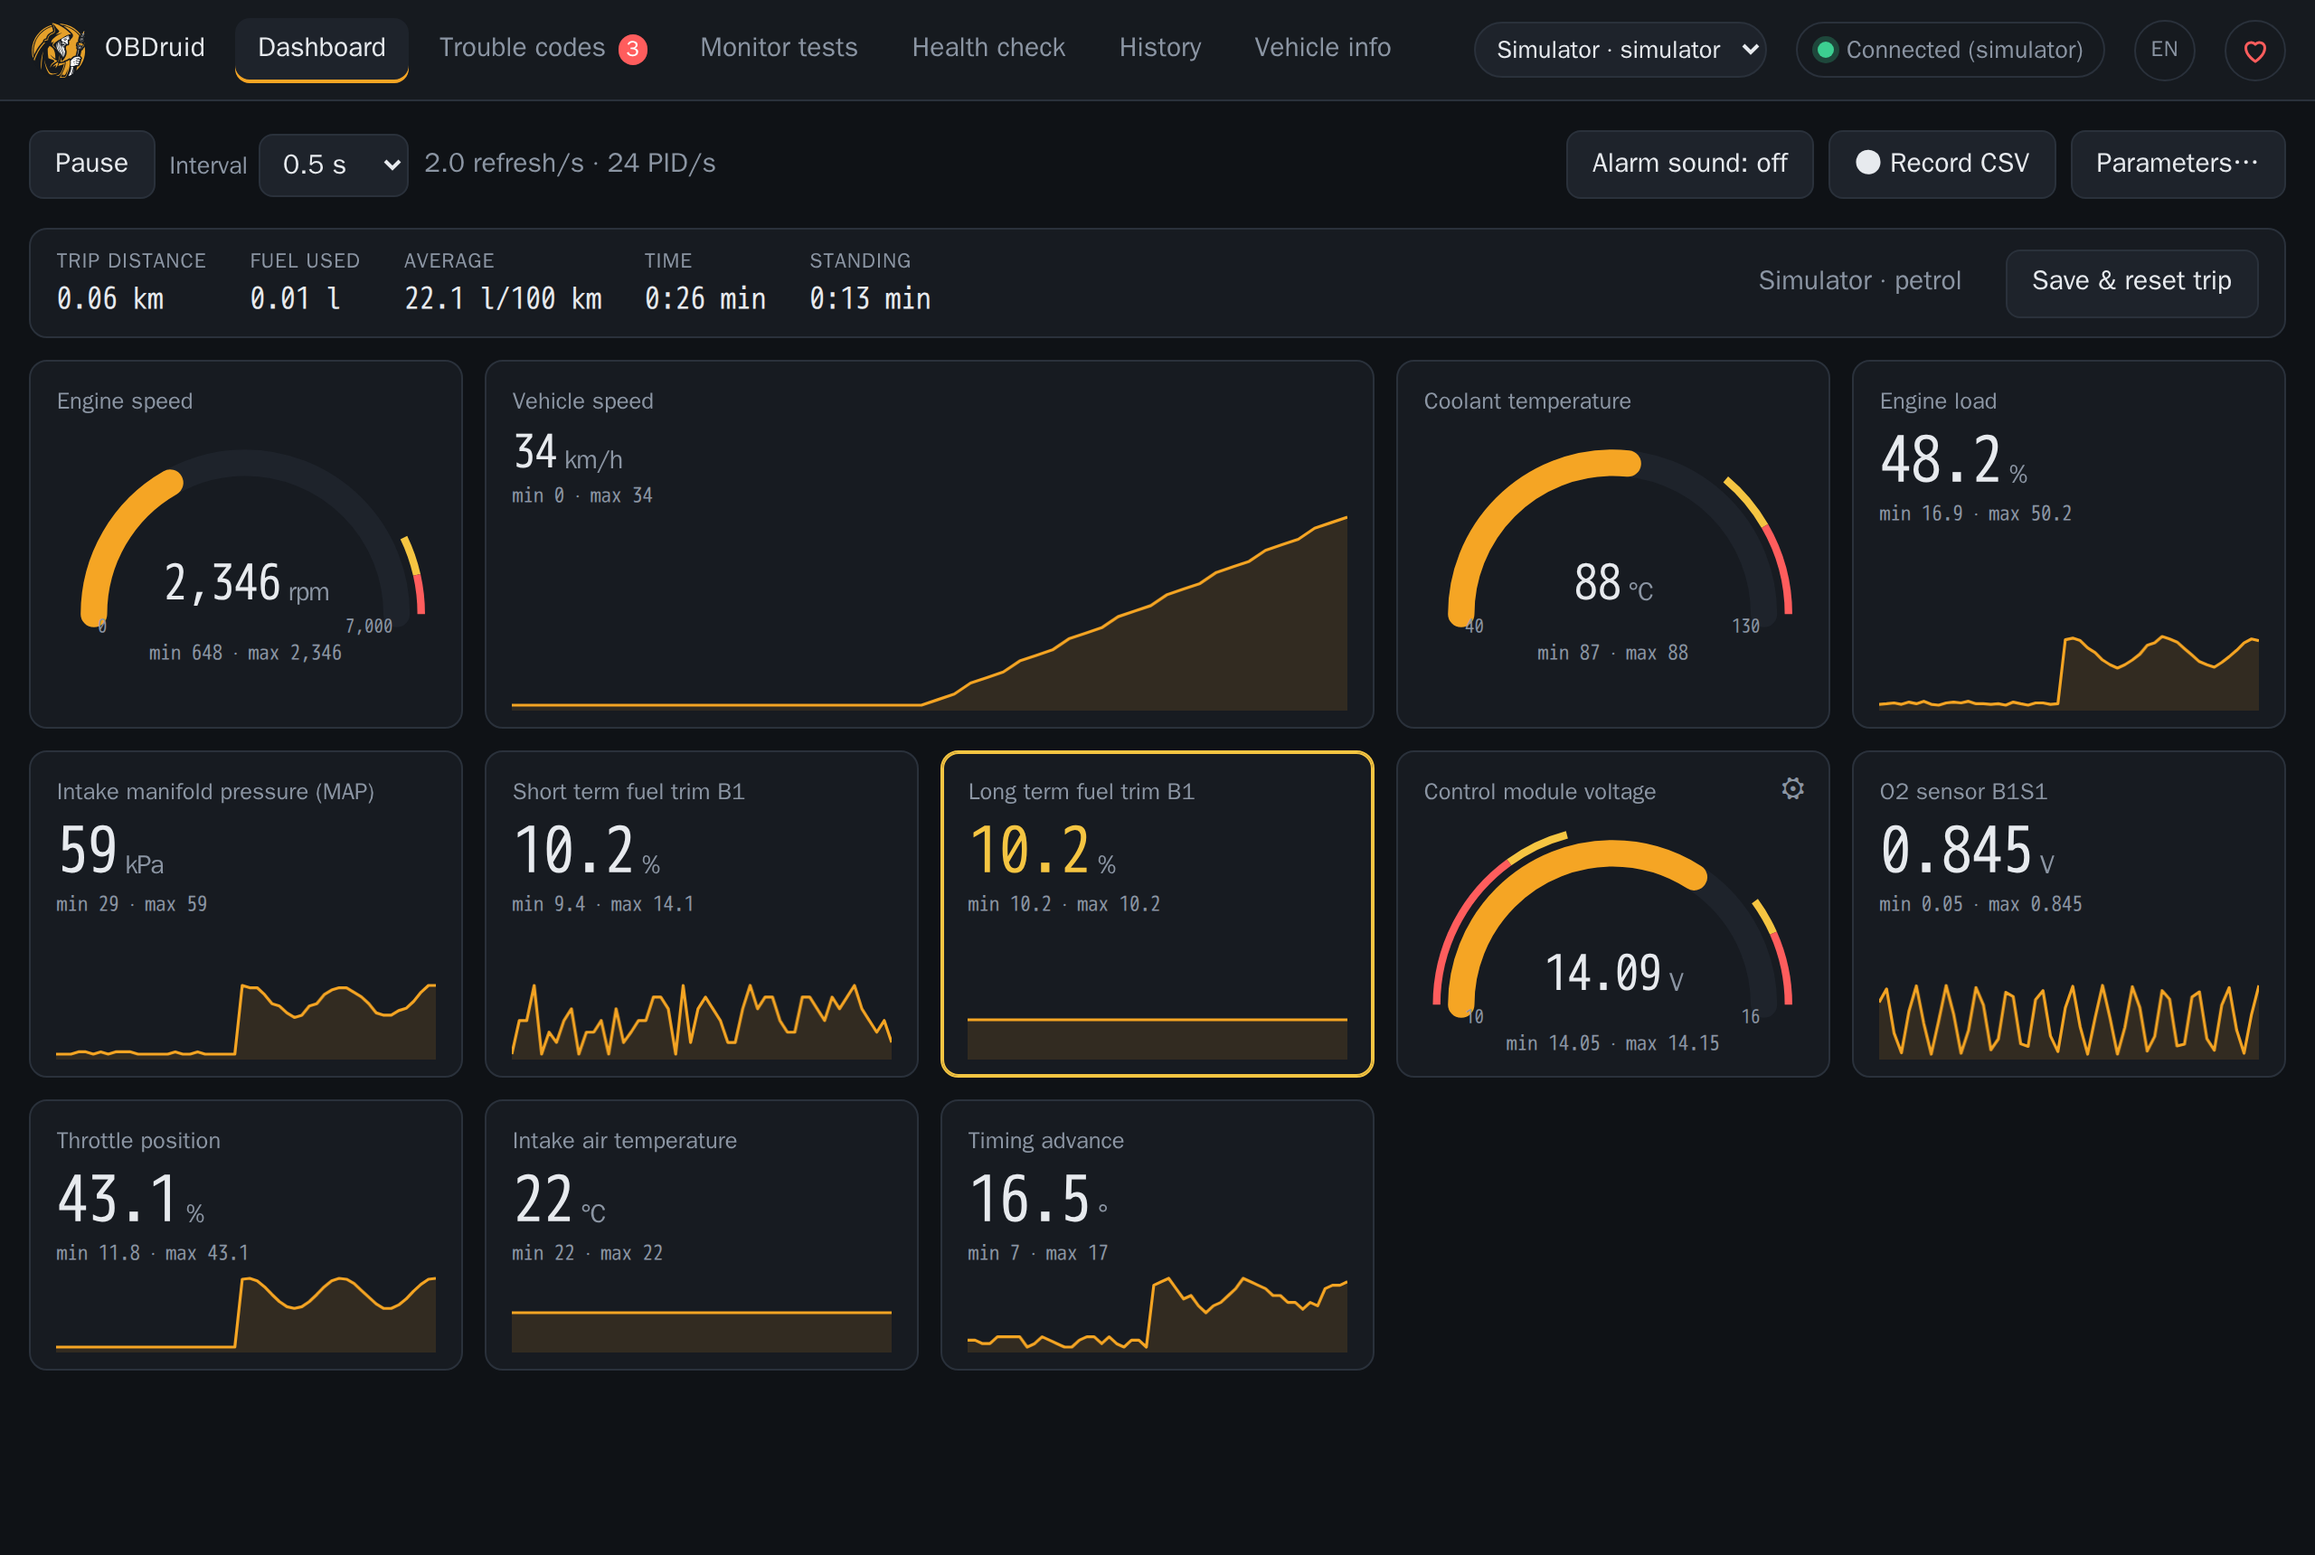
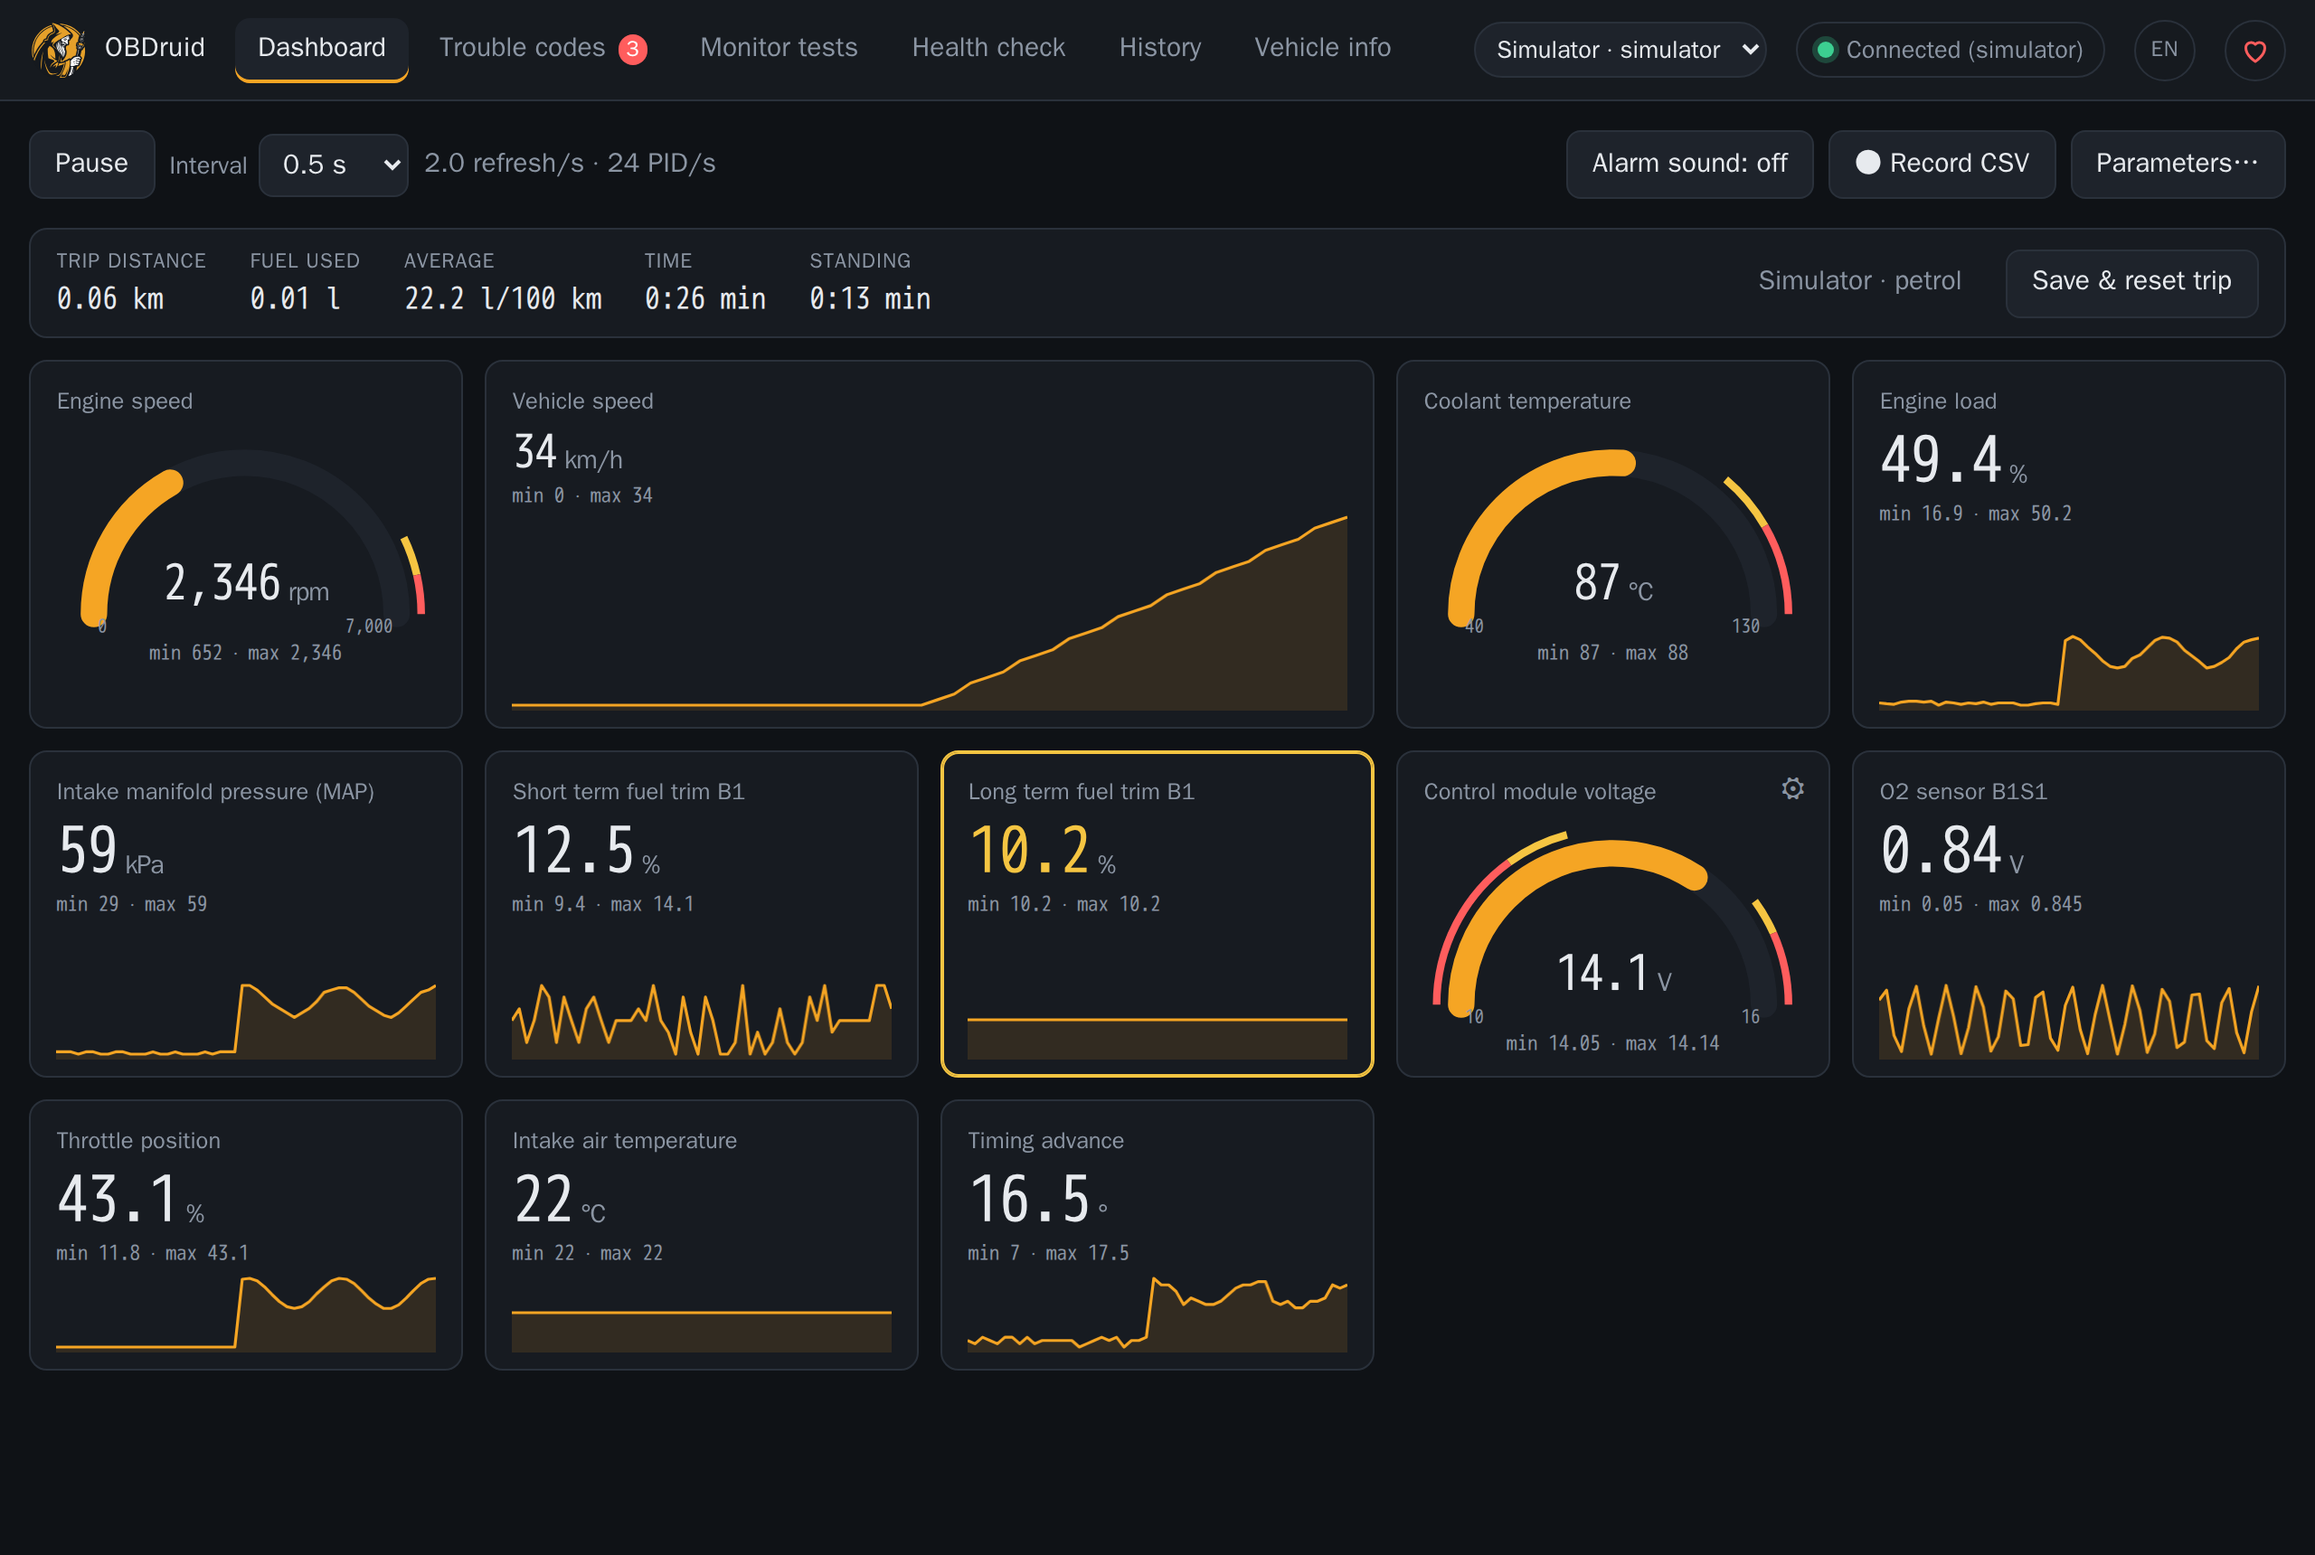
Release 0.5.0: changelog, release workflow, README updates
- CHANGELOG.md; version 0.5.0
- release workflow: builds the package on a published GitHub release, attaches
  it and (when PYPI_PUBLISH is set) uploads to PyPI with trusted publishing
- README: install from a release wheel, reconnect, translated code descriptions
- no model-year guess for a VIN with an unknown WMI; simulator screenshots retaken

diff --git a/src/obdruid/core/vin.py b/src/obdruid/core/vin.py
@@ -112,6 +112,6 @@ def decode(vin: Optional[str], today: Optional[date] = None) -> Optional[VinInfo
                    manufacturer=WMI.get(wmi) or WMI.get(wmi[:2]))
     # Ford of Europe keeps the year in position 11 (and the month in 12); others use position 10.
     position = 10 if wmi in ("WF0", "VS6", "NM0", "SFA") else 9
-    if len(text) > position:
+    if len(text) > position and (info.manufacturer or info.country):  # no year guess for an unknown WMI
         info.year = _year(text[position], today)
     return info

diff --git a/src/obdruid/__init__.py b/src/obdruid/__init__.py
@@ -1,3 +1,3 @@
 """OBDruid – open-source OBD-II workshop tool."""
 
-__version__ = "0.4.0"
+__version__ = "0.5.0"

diff --git a/README.md b/README.md
@@ -123,6 +123,15 @@ Any ELM327 compatible adapter (USB, Bluetooth via `rfcomm`) should work through
 
 ## Install
 
+From a release (no git needed) – download the wheel from the
+[latest release](https://github.com/spidero/obdruid/releases/latest) and install it with pipx:
+
+```bash
+pipx install --system-site-packages "obdruid-0.5.0-py3-none-any.whl[gui]"   # or [web] without the window
+```
+
+From source:
+
 ```bash
 git clone https://github.com/spidero/obdruid.git
 cd obdruid
@@ -272,8 +281,12 @@ English and Polish; the choice is remembered in the browser, and a Polish browse
 English texts are the keys of one dictionary, `src/obdruid/web/static/pl.json`, used by both the
 browser and the server (`obdruid/i18n.py`). Health findings are stored as templates with parameters,
 so saved reports follow the current language. To add a language, copy `pl.json`, translate it and add
-its code to `LANGUAGES` in `i18n.py` and to the button in `app.js`. Not translated: the command line,
-the trouble code descriptions (they come from python-OBD's English database) and the API messages.
+its code to `LANGUAGES` in `i18n.py` and to the button in `app.js`.
+
+**Trouble code descriptions** are translated too: all ~1800 generic descriptions are built from a parts
+dictionary (`src/obdruid/core/dtc_pl.json`: component names, fault kinds, prefixes), for example
+*Fuel Rail Pressure Sensor Circuit Low* → *Czujnik ciśnienia paliwa w listwie – obwód: sygnał niski*.
+Not translated: the command line and the API messages.
 
 ### Clearing trouble codes
 
@@ -326,6 +339,12 @@ The web UI is an installable app (PWA): open it on the phone and use the browser
   ```
 
   With a self-signed certificate the browser shows a warning once; accept it for your own device.
+
+### Connection lost?
+
+The server reconnects by itself: after a lost link (ignition off, Bluetooth out of range) it retries
+after 5 s, then every 15 s and 30 s until the car answers again or you press *Disconnect*. The top bar
+shows *Reconnecting…*. A server started before the ignition was on connects once the car wakes up.
 
 ### Run as a service (Raspberry/Orange Pi)
 

diff --git a/CHANGELOG.md b/CHANGELOG.md
@@ -1,0 +1,34 @@
+# Changelog
+
+## 0.5.0 – 2026-11-15
+
+First public release under the name **OBDruid** (formerly OBD Tool).
+
+### Added
+- **Bluetooth and Wi-Fi adapters:** `rfcomm://MAC` (classic, no pairing or `rfcomm bind`), `ble://MAC`
+  (Bluetooth LE on Linux, also dual-mode adapters) and `socket://IP:PORT`; adapter search in the web UI and
+  `obdruid ports --scan`.
+- **Battery and alternator test:** battery at rest, voltage dip while starting, charging at idle and under
+  load, with plain-language findings (`obdruid battery` and the Health check tab).
+- **Car switcher** in the top bar: each vehicle profile remembers its adapter; cars that report no VIN are
+  recognised by the adapter they use.
+- **Automatic reconnect** with back-off after a lost link; lost "supported PIDs" answers are asked again.
+- **Polish trouble code descriptions** for all ~1800 generic codes.
+- **VIN decoding** (manufacturer, country, model year) and profiles named from the VIN.
+- **Installable web app (PWA)** and optional HTTPS (`obdruid web --ssl-cert/--ssl-key`).
+- Health report as PDF (print dialog), `obdruid gui --remote HOST` to show another machine's UI.
+- Support window with supporter keys ("Licensed to"), logo, community files, CI on Python 3.10–3.13.
+
+### Changed
+- Package and command renamed to `obdruid` (`obd-tool` still works); data folder moved to
+  `~/.local/share/obdruid` automatically. License: GPL-2.0-or-later.
+
+### Fixed
+- A used vehicle profile no longer adopts another car's VIN.
+- Dashboard: charts and min/max are reset when the car changes; a missed reading keeps the last value.
+- Mode 06: a value equal to its limit is a pass (no false "close to the limit" warning).
+
+## 0.3.0 and earlier
+
+Development versions: core, simulator, CLI, web UI, desktop GUI, health check, freeze frame, mode 06,
+gauges and alarms, trip computer, vehicle history, Polish UI.
